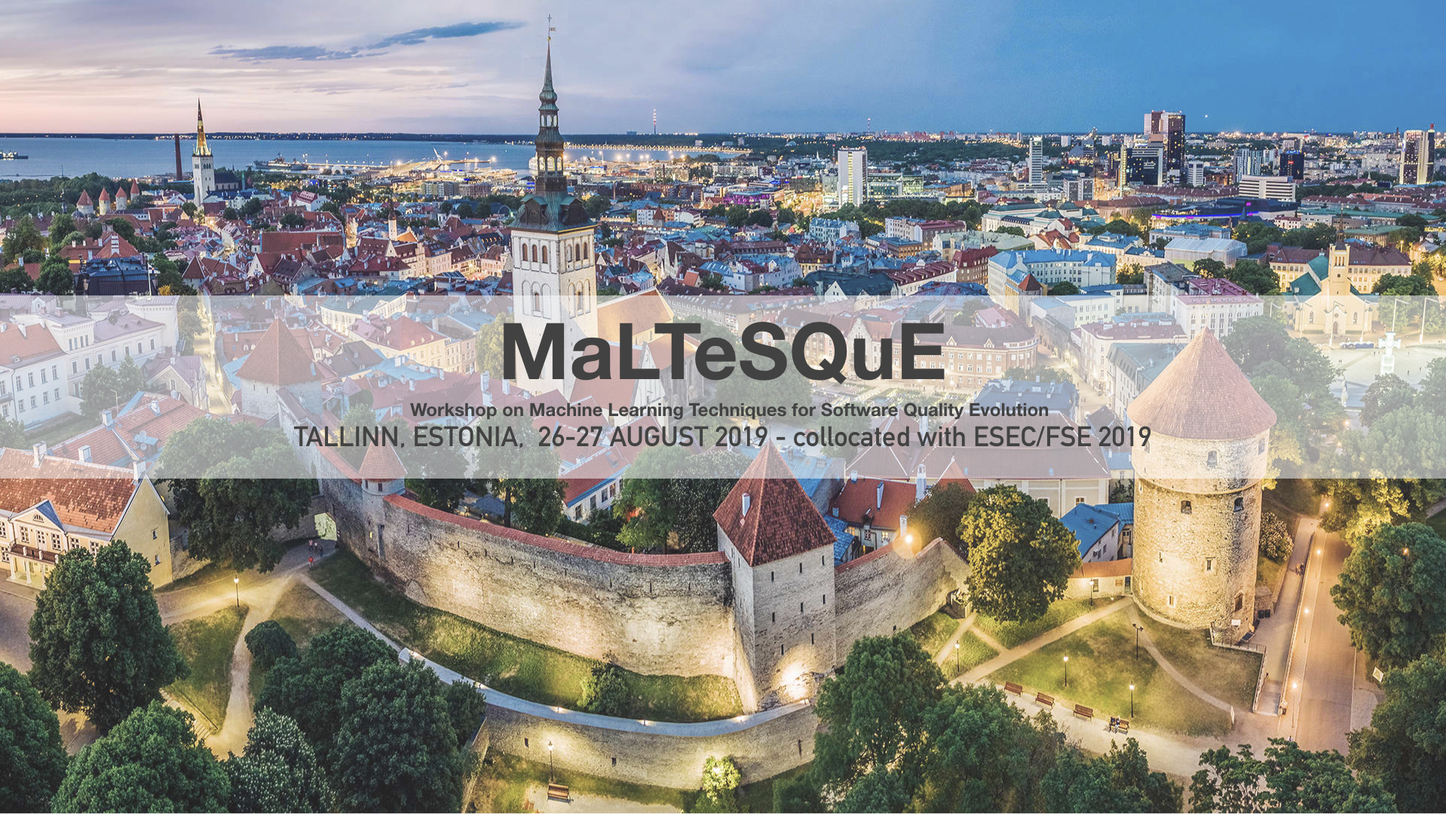
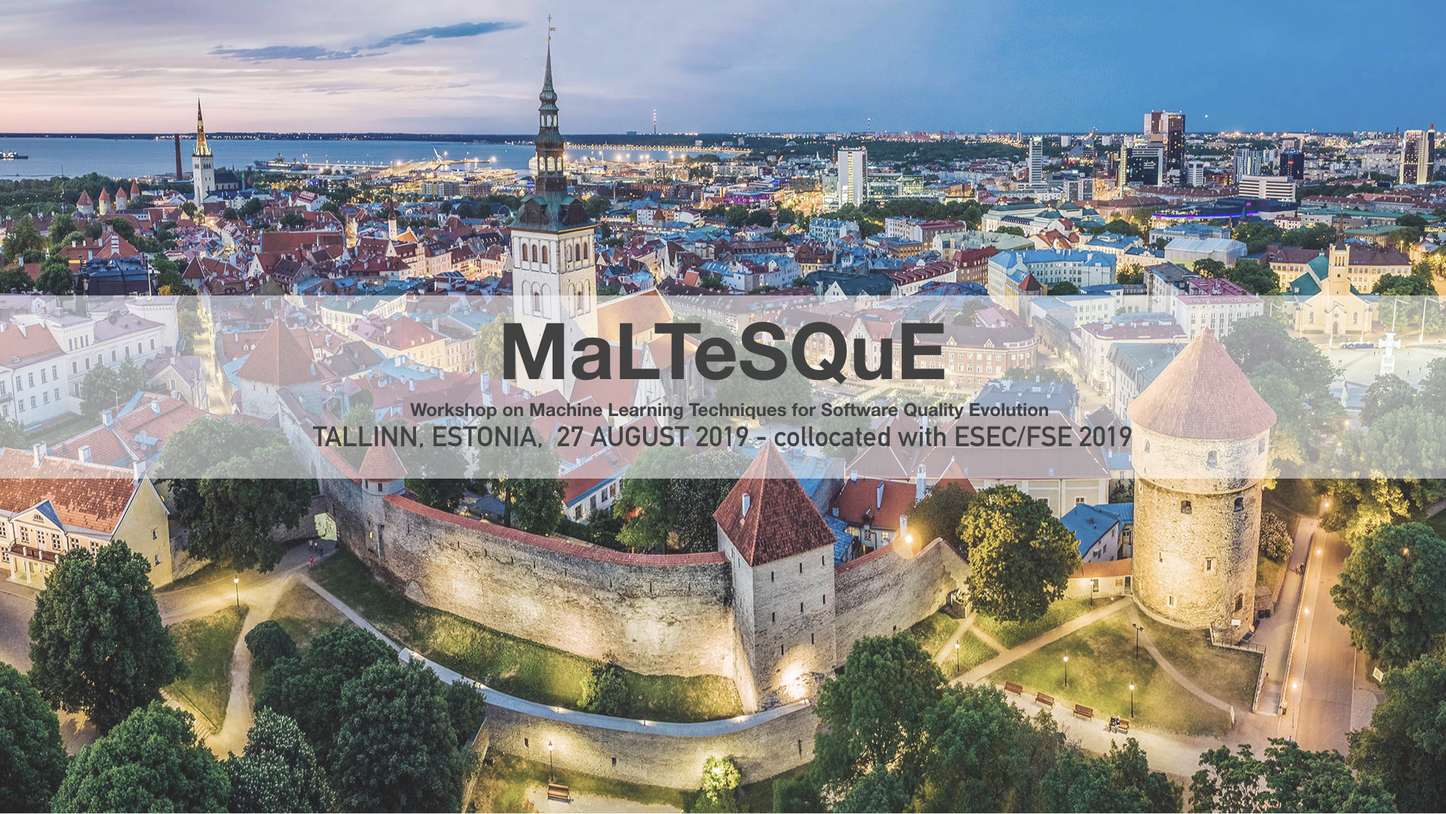
Date added

Changed region(s): [[0.1846, 0.5194, 0.7998, 0.55]]

diff --git a/submission.html b/submission.html
@@ -45,25 +45,32 @@
             <div class="inner">
                 <header class="align-center">
                     <h2>Call for Papers</h2>
-                    <p>Coming Soon!</p>
-                    <!-- <p style="color: black">The aim of the workshop is to provide a forum for researchers and practitioners to present and discuss new ideas, trends and results concerning the application of ML methods to software quality evaluation. We expect that the workshop will help in: (i) the validation of existing ML methods for software quality evaluation as well as their application to novel contexts, (ii) the comparison of efficiency and effectiveness of ML methods, both among other automated approaches and the human judgement, and (iii) the adaptation of ML approaches already used in other areas of science in the context of software quality.
-                        <br>
-                        <br>
-                    Topics of interest include, but are not limited to:
+                    <p>The assessment of software quality is one of the most multifaceted (e.g., structural quality, product quality, process quality, etc.) and subjective aspects of software engineering (since in many cases it is substantially based on expert judgement). Such assessments can be performed at almost all phases of software development (from project inception to maintenance) and at different levels of granularity (from source code to architecture). However, human judgement is: (a) inherently biased by implicit, subjective criteria applied in the evaluation process, and (b) its economical effectiveness is limited compared to automated or semi-automated approaches. To this end, researchers are still looking for new, more effective methods of assessing various qualitative characteristics of software systems and the related processes.
                     <br>
-  - Application of machine-learning in software quality evaluation,
-  <br>
-  - Analysis of multi-source data, 
-  <br>
-  - Knowledge acquisition from software repositories,
-  <br>
-  - Adoption and validation of machine learning models and algorithms in software quality,
-  <br>
-  - Decision support and analysis in software quality,
-  <br>
-  - Prediction models to support software quality evaluation</p>-->
+                    <br>
+					In recent years we have been observing a rising interest in adopting various approaches to exploit machine learning (ML) and automated decision-making processes in several areas of software engineering. These models and algorithms help to alleviate human subjectivity in order to make informed decisions based on available data and evaluated with objective criteria. Thus, the adoption of ML techniques is a promising way to improve software quality evaluation. Conversely, learning capabilities are increasingly embedded within software, including in critical domains such as automotive and health. This calls for the application of quality assurance techniques to ensure the reliable engineering of ML-based software systems.
+					<br>
+					<br>
+					The aim of the workshop is to provide a forum for researchers and practitioners to present and discuss new ideas, trends and results concerning the application of ML methods to software quality evaluation and the application of software engineering techniques to self-learning systems. We expect that the workshop will help in (1) the validation of existing ML methods for software quality evaluation as well as their application to novel contexts, (2) the effectiveness evaluation of ML methods, both compared to other automated approaches and the human judgement, (3) the adaptation of ML approaches already used in other areas of science in the context of software quality, (4) the design of new techniques to validate ML-based software, inspired by traditional software engineering techniques.
+					<br>
+					<br>
+					Topics of interest include, but are not limited to:<br>
+- Application of machine-learning in software quality evaluation,<br>
+- Analysis of multi-source data,<br>
+- Knowledge acquisition from software repositories,<br>
+- Adoption and validation of machine learning models and algorithms in software quality,<br>
+- Decision support and analysis in software quality,<br>
+- Prediction models to support software quality evaluation,<br>
+- Validation and verification of learning systems,<br>
+- Automated machine learning,<br>
+- Design of safety-critical learning software,<br>
+- Integration of learning systems in software ecosystems.</p>
 
 <h3>Evaluation Criteria and Submission</h3>
+
+<p>Coming Soon!</p>
+
+<h3>Special Issue</h3>
 
 <p>Coming Soon!</p>
 
@@ -83,19 +90,11 @@ Authors of selected papers accepted at MaLTeSQuE 2018 will be invited to submit 
 </p> -->
 
 <h3>Important Dates</h3>
-<p>Coming Soon!</p>
-<!-- <p style="color: black">
-- <b>Abstract Submission Deadline:</b> Jan 15nd, 2018
-  <br>
-- <b>Paper Submission Deadline:</b> Jan 19th, 2018
-  <br>
-- <b>Notification:</b> Feb 9th, 2018
-  <br>
-- <b>Camera ready:</b> Feb 22nd,  2018
-  <br>
-- <b>Workshop:</b> Mar 20th, 2018 
-
-</p> -->
+<ul><b>Abstract Submission Deadline:</b> May 27th, 2019</ul>
+<ul><b>Paper Submission Deadline:</b> June 3rd, 2019</ul>
+<ul><b>Notification:</b> Coming Soon!</ul>
+<ul><b>Camera ready:</b> Coming Soon!</ul>
+<ul><b>Workshop:</b> Aug 27th, 2019</ul>
 
 
                 </header>

diff --git a/index.html b/index.html
@@ -69,19 +69,18 @@
                             <h3>IMPORTANT DATES</h3>
                         </header>
                         <br>
-                        <ul><b>Coming Soon!</b></ul>
-                        <!-- <ul><b>Abstract Submission Deadline:</b> Jan 15nd, 2018</ul>
-						<ul><b>Paper Submission Deadline:</b> Jan 19th, 2018</ul>
-						<ul><b>Notification:</b> Feb 9th, 2018</ul>
-						<ul><b>Camera ready:</b> Feb 22nd,  2018</ul>
-						<ul><b>Workshop:</b> Mar 20th, 2018</ul> -->
+                        <ul><b>Abstract Submission Deadline:</b> May 27th, 2019</ul>
+						<ul><b>Paper Submission Deadline:</b> June 3d, 2019</ul>
+						<ul><b>Notification:</b> Coming Soon!</ul>
+						<ul><b>Camera ready:</b> Coming Soon!</ul>
+						<ul><b>Workshop:</b> Aug 27th, 2019</ul>
                     </article>
                     <article>
                         <header>
                             <h3>TWITTER</h3>
                         </header>
                         <br>
-                        <a class="twitter-timeline" data-tweet-limit="3" href="https://twitter.com/MaLTeSQuE_2018?ref_src=twsrc%5Etfw">Tweets by MaLTeSQuE_2018</a> <script async src="https://platform.twitter.com/widgets.js" charset="utf-8"></script>
+                        <a class="twitter-timeline" data-tweet-limit="3" href="https://twitter.com/MaLTeSQuE_2019">Tweets by MaLTeSQuE_2019</a> <script async src="https://platform.twitter.com/widgets.js" charset="utf-8"></script>
                     </article>
                 </div>
             </div>
@@ -96,7 +95,7 @@
                     </div>
                     <ul class="icons">
                         <li><a href="https://www.facebook.com/Maltesque-Workshop-168364760413829/" class="icon fa-facebook" target="blank"><span class="label">Facebook</span></a></li>
-                        <li><a href="https://twitter.com/MaLTeSQuE_2018" class="icon fa-twitter" 
+                        <li><a href="https://twitter.com/MaLTeSQuE_2019" class="icon fa-twitter" 
                             target="blank" ><span class="label">Twitter</span></a></li>
                     </ul>
                 </div>
